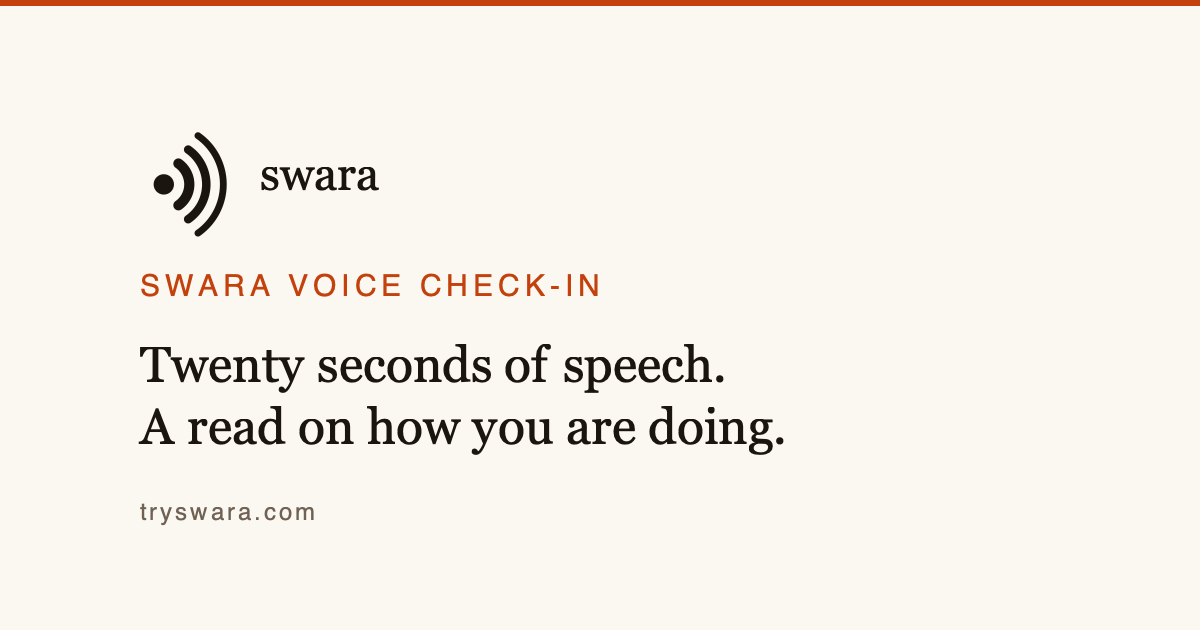
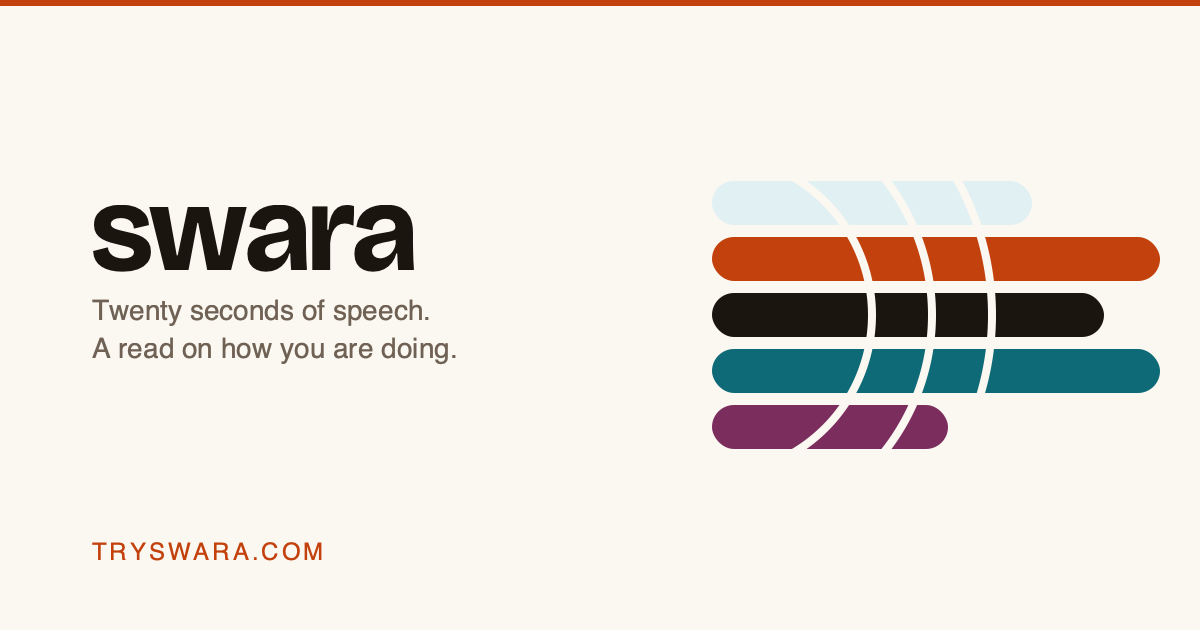
Add Swara's signature cover/band graphic site-wide
Confirmed brand signature per the design system's Cover component.
Used for the OG/share image and as a closing brand mark on the
homepage.

diff --git a/src/components/TrySwaraHome.tsx b/src/components/TrySwaraHome.tsx
@@ -137,6 +137,19 @@ export const TrySwaraHome = ({ onComplete }: TrySwaraHomeProps) => {
             </div>
           ))}
         </motion.div>
+
+        {/* Brand signature: the design system's Cover band graphic, the standing
+            Swara mark for anywhere that needs more presence than the small icon. */}
+        <motion.img
+          initial={{ opacity: 0 }}
+          whileInView={{ opacity: 1 }}
+          viewport={{ once: true }}
+          transition={{ duration: 0.8 }}
+          src={asset("brand/swara-signature-bands.svg")}
+          alt=""
+          aria-hidden="true"
+          className="mt-20 h-16 w-auto max-w-full md:h-20"
+        />
       </div>
     </div>
   );
